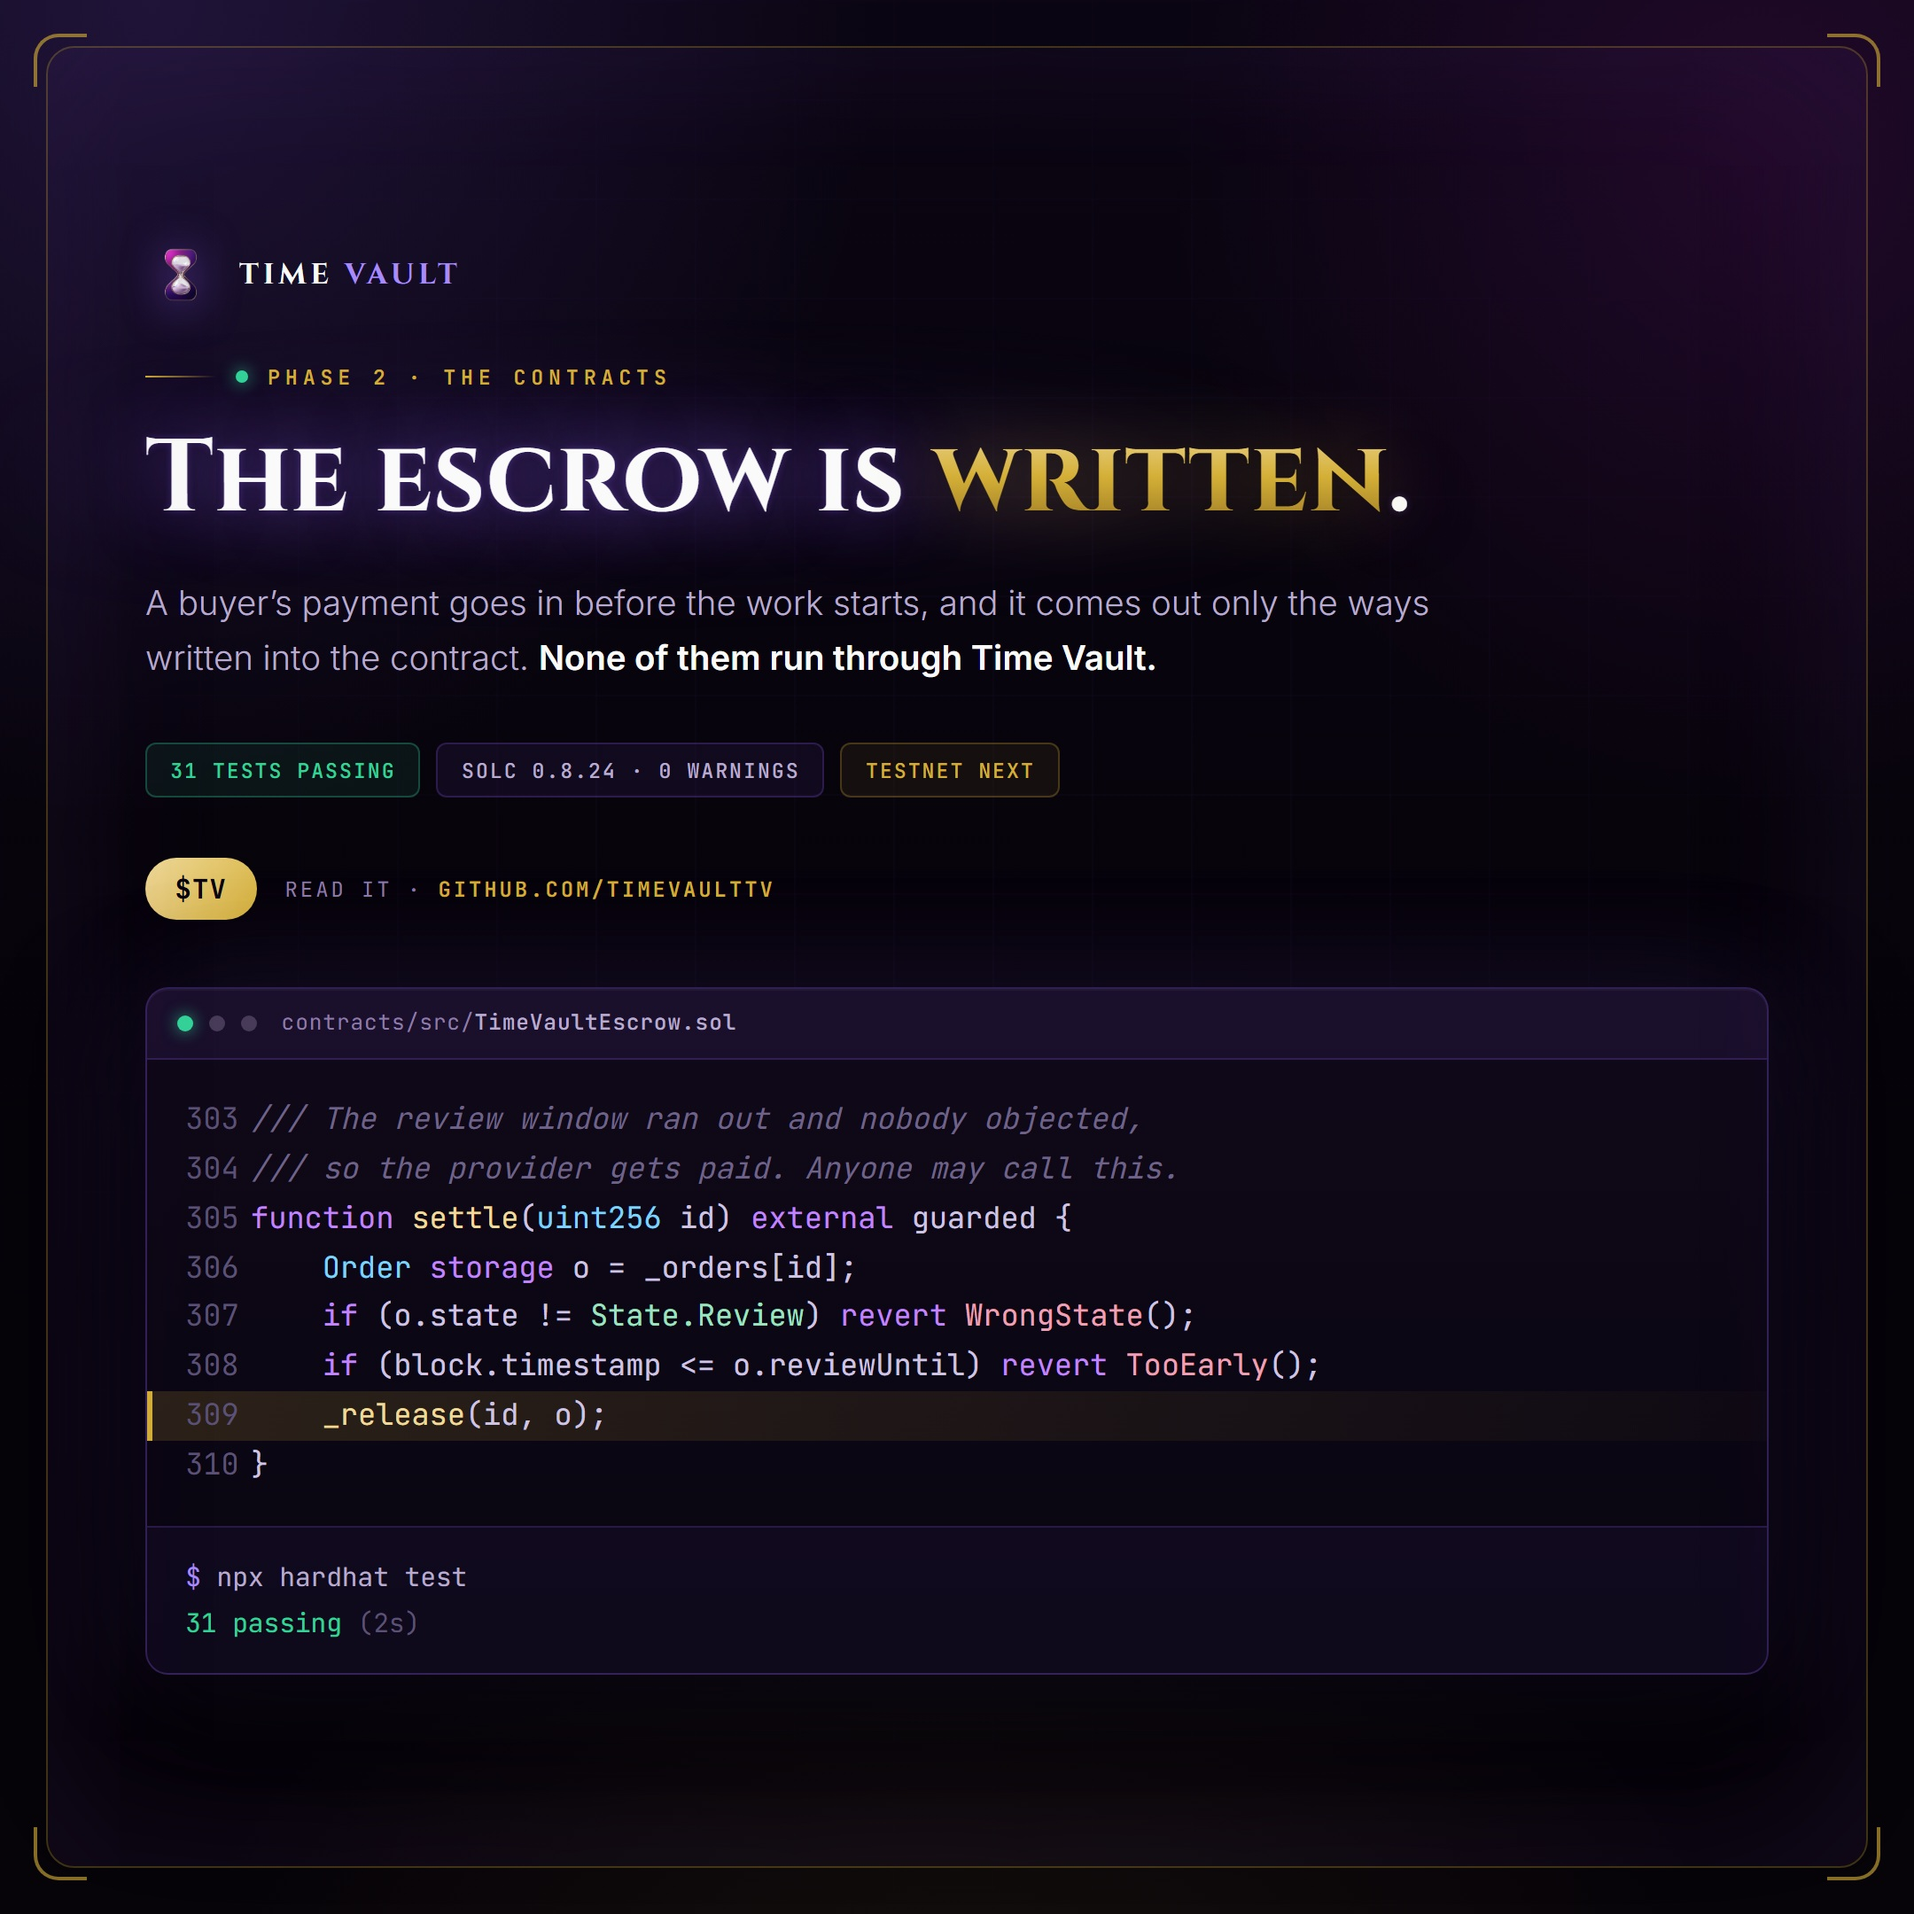
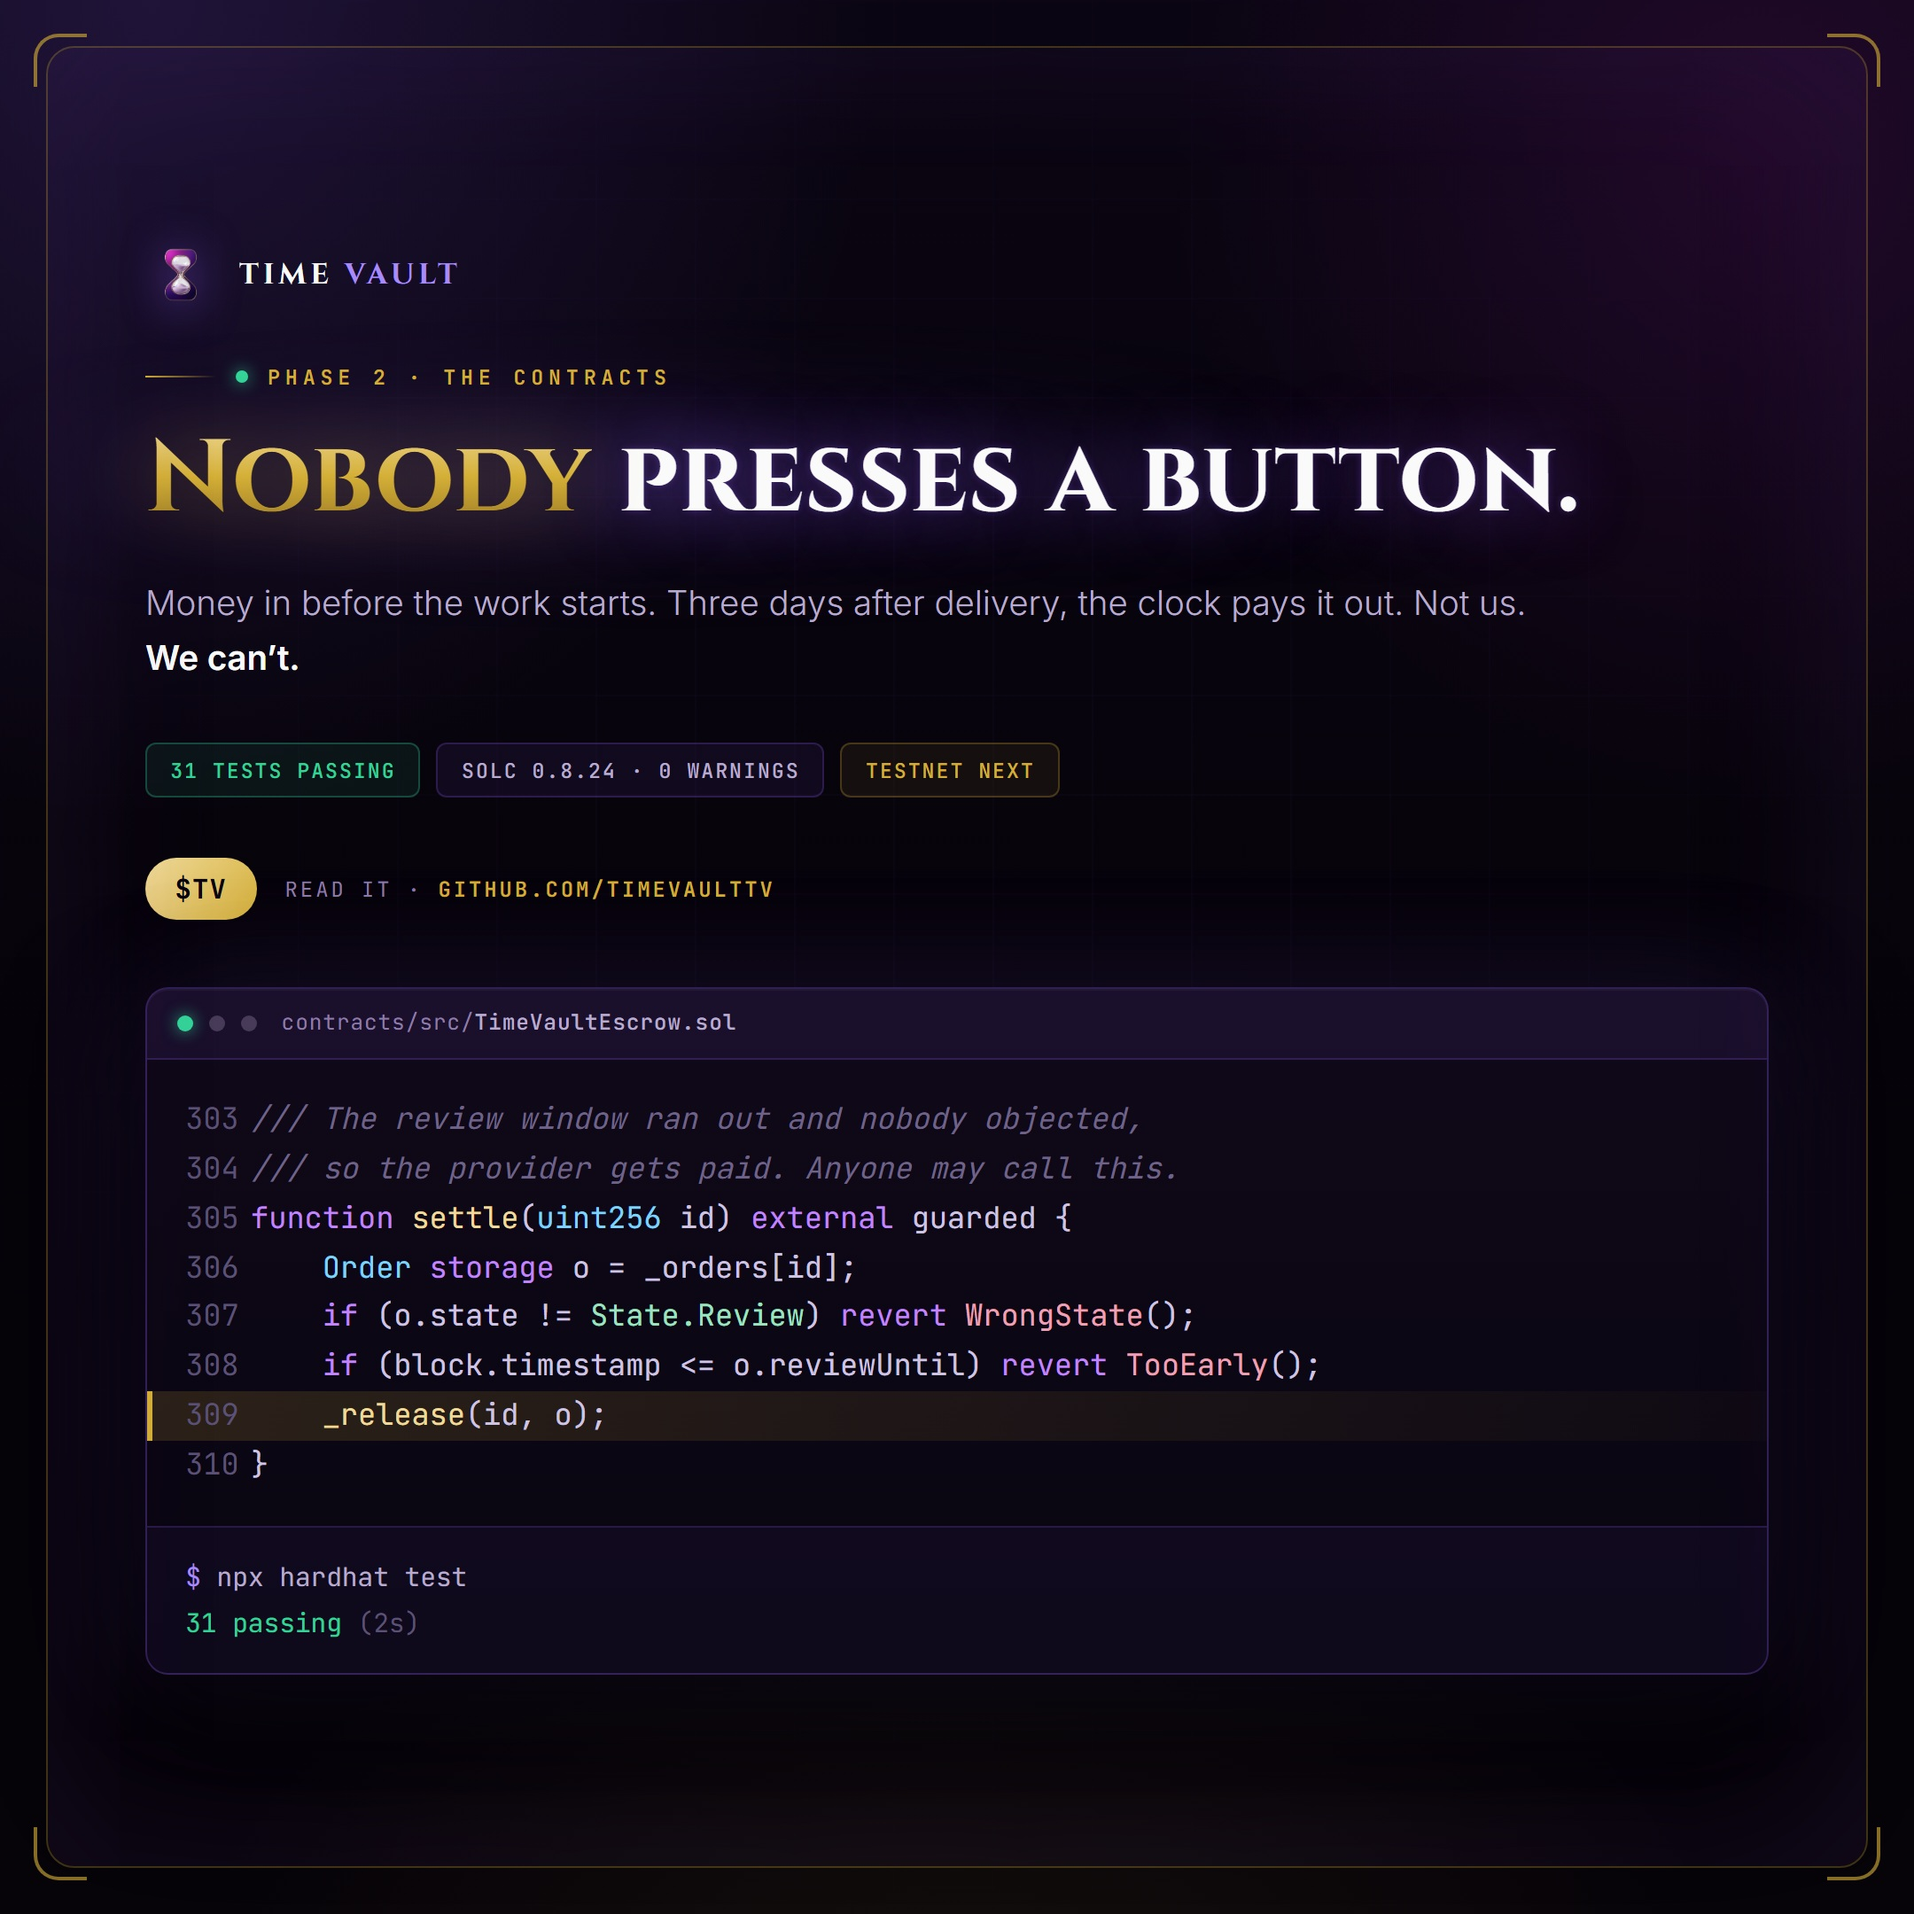
Rewrite the post so it does not read like a changelog
The first draft opened with "The escrow contract is written", signposted every
paragraph, and explained in balanced pairs. All true, and all of it sounding
like a machine wrote it, which for this account is its own kind of damage.

It now opens on the thing worth caring about and lets the mechanism do the
work. The banner headline follows: "Nobody presses a button" sits directly
above the comment in the code card that says exactly that, so the picture
argues for itself.

The voice rules are written down in both languages, in
BUILD THE PROGRESS/README.txt and in marketing/progress-captions.md, because
the failure mode repeats otherwise. The old ban on saying "we" is lifted; it
was the main thing making these read as press releases.

Changed region(s): [[0.062, 0.2171, 0.8375, 0.2792], [0.062, 0.3102, 0.7755, 0.3722]]

diff --git a/marketing/progress-banner.html b/marketing/progress-banner.html
@@ -181,9 +181,11 @@ const POST = {
     slug: 'escrow-written',
     eyebrow: 'Phase 2 &middot; The Contracts',
     // <span class="g"> paints a phrase gold. Keep it to one phrase.
-    headline: 'The escrow is <span class="g">written</span>.',
-    sub: 'A buyer’s payment goes in before the work starts, and it comes out only ' +
-         'the ways written into the contract. <b>None of them run through Time Vault.</b>',
+    // A headline is a hook, not a changelog line. "The escrow is written" says
+    // what happened; this says why anyone should care.
+    headline: '<span class="g">Nobody</span> presses a button.',
+    sub: 'Money in before the work starts. Three days after delivery, the clock ' +
+         'pays it out. Not us. <b>We can’t.</b>',
     facts: [
         { text: '31 tests passing', kind: 'pass' },
         { text: 'solc 0.8.24 &middot; 0 warnings', kind: '' },

diff --git a/marketing/progress-captions.md b/marketing/progress-captions.md
@@ -16,8 +16,47 @@ No day counters, in the banner or in the post. "Day 4 of 10" turns a run of good
 work into a debt the moment a day slips, and it invites people to count the gaps
 instead of reading the work. The shipping is the point, not the streak.
 
-Same voice as `captions.md`: short lines, plain words, no hashtag wall, no press
-release. No "I" and no "we". Time Vault is the subject, the reader is "you".
+## Voice
+
+`BUILD THE PROGRESS/README.txt` carries this in Indonesian for the user. The
+short version, because the first draft of every one of these comes out sounding
+like a machine wrote it:
+
+**Never open with a status report.** "The escrow contract is written" is a
+changelog entry. "Spent today writing a contract that makes it impossible for
+us to touch the money. On purpose." is a post. The first sentence has one job:
+earn the second.
+
+**Say "we".** The earlier rule here banned it, and that was wrong. Avoiding
+"we" is exactly what makes a post read as a press release. The no-first-person
+rule belongs to the agents answering in the app, not to the account posting.
+
+**Cut the signposting.** "Here is the part worth reading", "A few of the
+details:", "It is worth noting". People do not announce that they are about to
+explain something. Delete the announcement and keep the explanation.
+
+**Fragments are good.** "Not the buyer, not us." is not a sentence, and that is
+why it sounds like speech.
+
+**One idea in the main post.** No bullet lists there. Detail goes in the reply,
+which also gives people a second thing to click.
+
+**Numbers dropped, not displayed.** "562 lines, 31 tests, zero warnings, all of
+it public" beats a tidy line per statistic.
+
+**Close with an invitation.** "Go break it." Not a summary of what was just
+said.
+
+**Never write "not yet" or "still".** Those read as apologising. Write what
+comes next instead: "Testnet next." This is a rule about tone and nothing else.
+Unbuilt things still may not be described as running, and the caveats still
+live in the README and on `proof.html`.
+
+**Read it aloud.** Any sentence you would not say to a friend gets rewritten.
+
+Tells to hunt for and kill: three parallel items per sentence over and over,
+every sentence the same length, repeated "not X but Y", relentless politeness
+with no attitude anywhere, explaining something the reader already understood.
 
 The rule that governs the series: **nothing goes in a post that a reader cannot
 check.** Not one number, not one claim. It is what the account is for.
@@ -28,63 +67,44 @@ check.** Not one number, not one claim. It is what the account is for.
 
 **Banner:** `BUILD THE PROGRESS/escrow-written.jpg`
 
-> The escrow contract is written, and it is in the repo right now.
+> Spent today writing a contract that makes it impossible for us to touch the
+> money. On purpose.
 >
-> Here is the part worth reading.
+> Here's how it pays out. Buyer funds the job before you start. You deliver.
+> Three days later the money is yours, and nobody has to press a button for
+> that to happen. Not the buyer, not us. The clock does it, and once the clock
+> runs out anyone on earth can trigger the payout.
 >
-> When an order settles, the money does not pass through Time Vault. Either the
-> buyer accepts, or the review window runs out and anyone at all can call
-> settle(). There is no function anywhere in that file that lets Time Vault take
-> a token out of an order. Not the owner. Not the agents.
+> No approval queue. No "let me check with finance." No polite follow-up email
+> three weeks later.
 >
-> That is not a line in a pitch deck. It is a file you can open.
->
-> A few of the details:
->
-> The fee is stamped into an order the moment it is funded. Changing it later
-> cannot reach backwards into money that is already escrowed.
->
-> Dispute an order and VORIAN can split it. Only that order, only inside
-> fourteen days, and it takes no cut. If VORIAN never answers, anyone can
-> trigger a fifty-fifty split. Nobody gets paid for staying quiet.
->
-> The owner's rescue function is capped at the balance nobody is owed. Escrowed
-> funds sit out of reach by arithmetic instead of by promise.
->
-> 31 tests, all passing. solc 0.8.24, zero warnings. CI compiles it and runs the
-> suite on every push, so none of this needs taking on trust.
+> 562 lines, 31 tests, zero warnings, all of it public. Go break it.
 >
 > Testnet next.
 >
 > github.com/timevaulttv/timevault/blob/main/contracts/src/TimeVaultEscrow.sol
 
-### Short version, if the long one is too much for the slot
+### First reply, hung under it
 
-> The escrow contract is written.
+> The part people always ask about: what happens when a buyer just claims the
+> work is bad.
 >
-> No function in it lets Time Vault take a token out of an order. Not the owner,
-> not the agents. The buyer accepts, or the window runs out and anyone can
-> settle it.
+> VORIAN rules on it. But it only ever gets that one order, only for 14 days,
+> and it takes zero cut either way. Go quiet past 14 days and anyone can split
+> the escrow 50/50, and we get nothing.
 >
-> 31 tests. Zero warnings. Read it yourself.
->
-> Testnet next.
->
-> github.com/timevaulttv/timevault
+> So we lose money by ignoring your dispute. Seemed like the right incentive.
 
-### Reply to hang under it
+### Second reply, if it is running
 
-Post this as the first reply, not in the main body. It gives people a second
-thing to click and it keeps the main post clean.
-
-> The tests are the interesting read, honestly. Each one is named after the
-> promise it checks, so the output is a list of things the contract will not let
-> you do.
+> The tests read like a list of things the contract won't let you do.
 >
 > "gives the owner no way to take escrowed money"
 > "gives KAIROS no power beyond writing a number"
 > "cannot freeze money that is already escrowed by pausing"
-> "splits down the middle when VORIAN never answers, and charges nothing for it"
+>
+> Named that way on purpose. If something on the site can't be traced back to
+> one of these, one of the two is wrong.
 >
 > github.com/timevaulttv/timevault/blob/main/contracts/test/escrow.test.js
 
